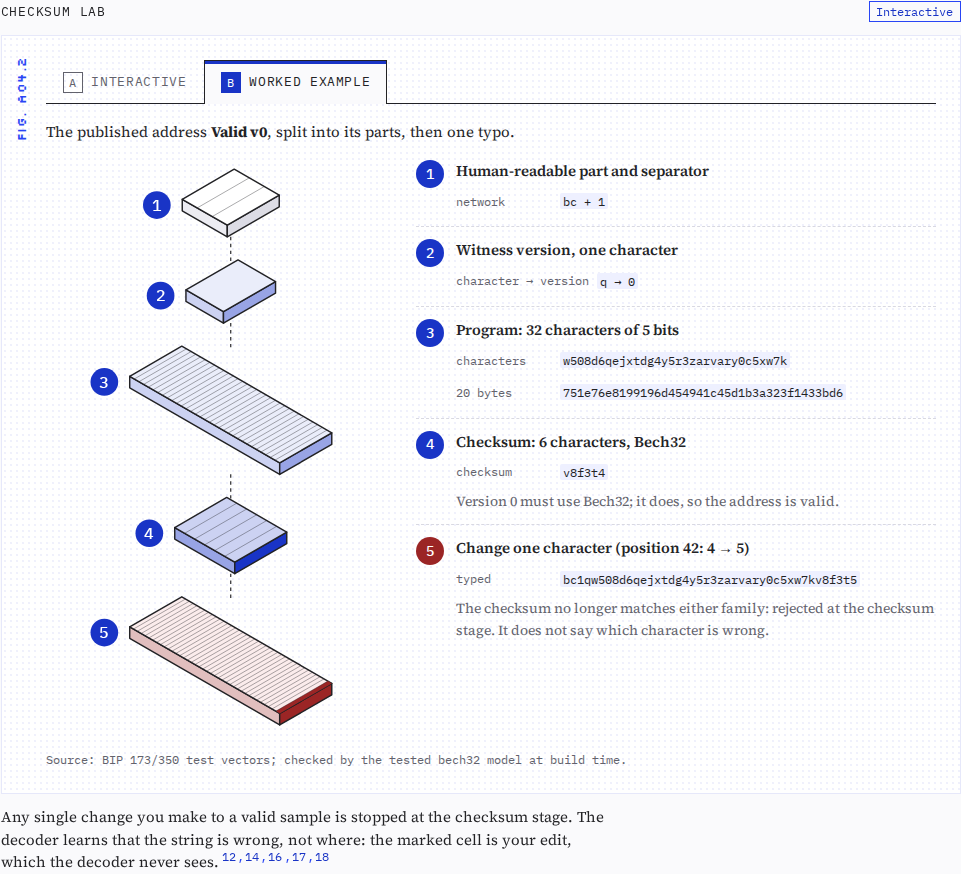
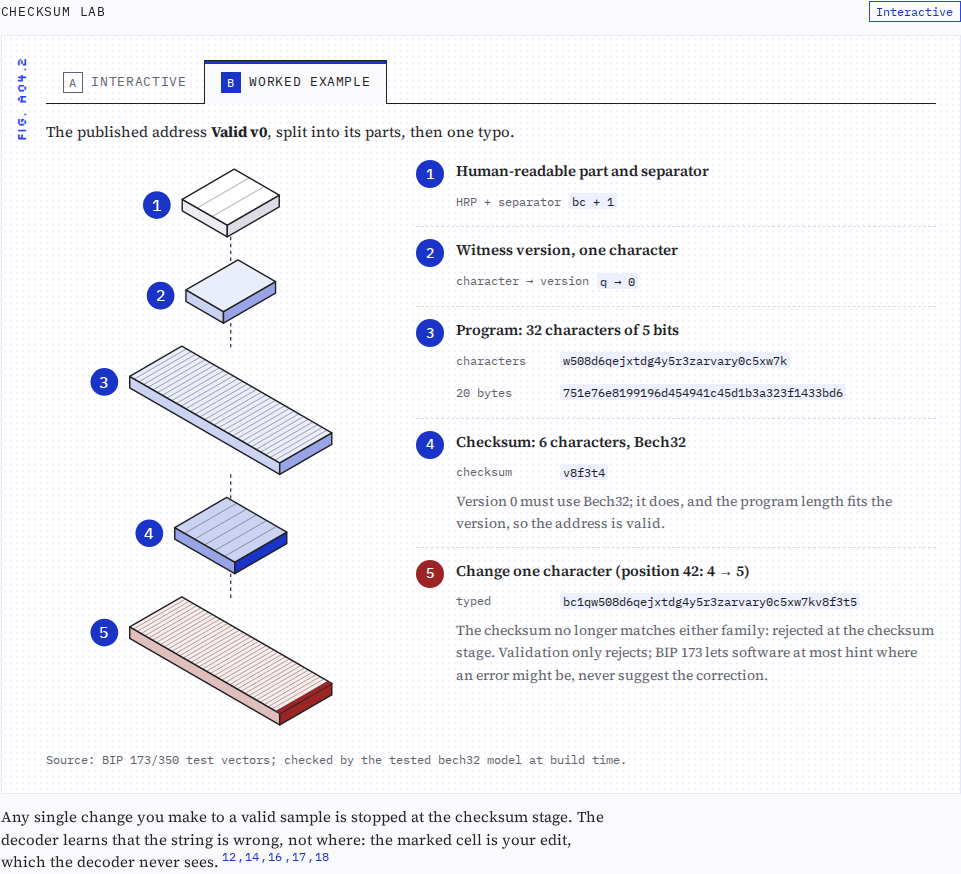
Apply worked-example review; record reader features
Worked examples: wording and values corrected per independent review (BIP 173
error hints, PSBT parallel signers and record counts, tapscript budget start,
own-key fingerprint label, consistent hatching). Tab panels gain roles and
focus only after enhancement. review/reader-features.md records both features.

Claude-Session: https://claude.ai/code/session_01QKioyx8RLEZkE9rL1EegCS

Changed region(s): [[0.437, 0.587, 0.9677, 0.8032], [0.718, 0.5561, 0.9365, 0.587], [0.4683, 0.2162, 0.6243, 0.2471]]

diff --git a/packages/figures/src/worked/Worked.tsx b/packages/figures/src/worked/Worked.tsx
@@ -43,13 +43,13 @@ export function MnemonicWorked({ fixture: f }: { fixture: DerivedMnemonicFixture
     {
       title: "Stretch words and passphrase into a 64-byte seed",
       values: [{ label: "passphrase", value: f.passphrase || "(empty)" }, { label: "seed", value: d.seeds[0].seedHex }],
-      note: "PBKDF2-HMAC-SHA512, 2,048 iterations, salt “mnemonic” + passphrase.",
+      note: "PBKDF2-HMAC-SHA512, 2,048 iterations; password the words, salt “mnemonic” + passphrase, both UTF-8 NFKD.",
       layer: { size: 0.7, tone: "accent" },
     },
   ];
   return (
     <WorkedExample
-      intro={<>One published vector, end to end: <strong>{f.label}</strong>. A public test phrase — never use it for funds.</>}
+      intro={<>One published vector, end to end: <strong>{f.label}</strong>. The hatched layer is the checksum. A public test phrase — never use it for funds.</>}
       steps={steps}
       label={`Entropy, checksum, ${d.layout.wordCount} groups, words, then seed, drawn as stacked layers.`}
       source={<>Source: {f.source.external ? `${f.source.external} ${f.source.pointer}` : `BIP 39 line ${f.source.line}`}; computed by the tested BIP 39 model.</>}
@@ -64,13 +64,13 @@ export function Bip32Worked({ fixture: f }: { fixture: DerivedBip32Fixture }) {
   const steps: WorkedStep[] = [
     {
       title: "Seed → master key and chain code",
-      values: [{ label: "seed", value: f.seedHex }, { label: "HMAC-SHA512", value: f.derived.masterIHex }],
+      values: [{ label: "seed", value: f.seedHex }, { label: "HMAC-SHA512, key “Bitcoin seed”", value: f.derived.masterIHex }],
       note: "Left 32 bytes: master private key. Right 32 bytes: master chain code.",
       layer: { size: 0.75, tone: "plain", cells: 2 },
     },
     ...nodes.map((n): WorkedStep => ({
-      title: n.path === "m" ? "Master node m" : `${n.path} — ${n.hardened ? "hardened child: needs the parent’s private key" : "normal child: derivable from the parent’s public key too"}`,
-      values: [{ label: "xpub", value: n.xpub }, { label: "fingerprint", value: n.fingerprintHex }],
+      title: n.path === "m" ? "Master node m" : `${n.path} — ${n.hardened ? "hardened child: needs the parent’s private key" : "normal child: derivable from the parent’s extended public key too"}`,
+      values: [{ label: "xpub", value: n.xpub }, { label: "own key fingerprint", value: n.fingerprintHex }],
       layer: { size: 0.9 - n.depth * 0.12, tone: n.path === "m" ? "accent" : n.hardened ? "hatch" : "wash" },
     })),
   ];
@@ -109,7 +109,7 @@ export function TxWorked({ fixture: f }: { fixture: DerivedTransactionFixture })
     }),
     {
       title: "Two identifiers",
-      values: [{ label: `txid (${m.baseSize} bytes hashed)`, value: m.txidHex }, { label: `wtxid (${m.totalSize} bytes)`, value: m.wtxidHex }],
+      values: [{ label: `txid (${m.baseSize} bytes hashed)`, value: m.txidHex }, { label: `wtxid (${m.totalSize} bytes hashed)`, value: m.wtxidHex }],
       note: `Hashes in the byte order they are computed. Weight 3 × ${m.baseSize} + ${m.totalSize} = ${m.weight}; ${m.vsize} virtual bytes.`,
       layer: { size: 0.5, tone: "accent", cells: 2 },
     },
@@ -132,7 +132,7 @@ export function AddressWorked({ fixtures }: { fixtures: AddressFixture[] }) {
   const sep = good.address.lastIndexOf("1");
   const program = good.address.slice(sep + 2, -6);
   const steps: WorkedStep[] = [
-    { title: "Human-readable part and separator", values: [{ label: "network", value: `${good.address.slice(0, sep)} + ${good.address[sep]}` }], layer: { size: 0.3, tone: "plain", cells: sep + 1 } },
+    { title: "Human-readable part and separator", values: [{ label: "HRP + separator", value: `${good.address.slice(0, sep)} + ${good.address[sep]}` }], layer: { size: 0.3, tone: "plain", cells: sep + 1 } },
     { title: "Witness version, one character", values: [{ label: "character → version", value: `${good.address[sep + 1]} → ${a.witnessVersion}` }], layer: { size: 0.25, tone: "wash", cells: 1 } },
     {
       title: `Program: ${program.length} characters of 5 bits`,
@@ -142,7 +142,7 @@ export function AddressWorked({ fixtures }: { fixtures: AddressFixture[] }) {
     {
       title: `Checksum: 6 characters, ${a.encoding === "bech32" ? "Bech32" : "Bech32m"}`,
       values: [{ label: "checksum", value: good.address.slice(-6) }],
-      note: `Version ${a.witnessVersion} must use ${a.witnessVersion === 0 ? "Bech32" : "Bech32m"}; it does, so the address is valid.`,
+      note: `Version ${a.witnessVersion} must use ${a.witnessVersion === 0 ? "Bech32" : "Bech32m"}; it does, and the program length fits the version, so the address is valid.`,
       layer: { size: 0.4, tone: "accent", cells: 6 },
     },
   ];
@@ -153,7 +153,7 @@ export function AddressWorked({ fixtures }: { fixtures: AddressFixture[] }) {
       steps.push({
         title: `Change one character (position ${pos + 1}: ${good.address[pos]} → ${typo.address[pos]})`,
         values: [{ label: "typed", value: typo.address }],
-        note: "The checksum no longer matches either family: rejected at the checksum stage. It does not say which character is wrong.",
+        note: "The checksum no longer matches either family: rejected at the checksum stage. Validation only rejects; BIP 173 lets software at most hint where an error might be, never suggest the correction.",
         layer: { tone: "fail", cells: good.address.length - sep - 1, mark: [pos - sep - 1] },
       });
     }
@@ -174,15 +174,17 @@ export function PsbtWorked({ fixture: f }: { fixture: DerivedPsbtTraceFixture })
     const records = s.maps.flatMap((m) => m.records);
     const added = records.filter((r) => r.status === "added");
     const removed = s.maps.reduce((n, m) => n + m.removed.length, 0);
-    const names = [...new Set(added.map((r) => r.name))];
+    const counts = [...added.reduce((m, r) => m.set(r.name, (m.get(r.name) ?? 0) + 1), new Map<string, number>())].map(([name, n]) => `${n} ${name} record${n === 1 ? "" : "s"}`);
+    const parent = s.basedOn.length === 1 ? f.derived.states.findIndex((x) => x.id === s.basedOn[0]) : -1;
+    const parallel = parent >= 0 && parent !== i - 1 ? ` Works on state ${parent + 1}, in parallel with ${f.derived.states[i - 1].role}.` : "";
     return {
       title: `${s.role} · ${s.bytes} bytes, ${records.length} record${records.length === 1 ? "" : "s"}`,
       note:
         i === 0
           ? "Unsigned transaction in the global map; every input and output map empty."
           : s.basedOn.length > 1
-            ? `Merges ${s.basedOn.length} PSBTs into one holding every record from each${s.uniqueFrom ? ` (${s.uniqueFrom.join(" and ")} records found in only one of them)` : ""}.`
-            : `${added.length ? `Adds ${names.join(", ")}.` : "Adds nothing new."}${removed ? ` Removes ${removed} record${removed === 1 ? "" : "s"}.` : ""}`,
+            ? `Merges ${s.basedOn.length} PSBTs into one holding every record from each${s.uniqueFrom ? `: ${s.uniqueFrom.map((n, k) => `${n} only in ${f.derived.states.find((x) => x.id === s.basedOn[k])?.role ?? "one copy"}’s copy`).join(", ")}` : ""}.`
+            : `${added.length ? `Adds ${counts.join(", ")}.` : "Adds nothing new."}${removed ? ` Removes ${removed} record${removed === 1 ? "" : "s"}.` : ""}${parallel}`,
       layer: { size: 0.45 + 0.55 * Math.min(1, records.length / 16), tone: removed ? "hatch" : i === 0 ? "plain" : "wash", cells: Math.min(records.length, 24), highlight: records.map((r, k) => (r.status === "added" && i > 0 ? k : -1)).filter((k) => k >= 0 && k < 24) },
     };
   });
@@ -193,7 +195,7 @@ export function PsbtWorked({ fixture: f }: { fixture: DerivedPsbtTraceFixture })
   });
   return (
     <WorkedExample
-      intro={<>The <strong>{f.label}</strong>, one published state per layer. Cells are records; filled cells were just added.</>}
+      intro={<>The <strong>{f.label}</strong>, one published state per layer. Cells are records; filled cells were just added; a hatched layer removed records.</>}
       steps={steps}
       label="Each published PSBT state stacked in order, growing as roles add records."
       source={<>Source: BIP 174 lines {f.steps[0].line}–{f.extracted.line}; parsed and combined by the tested PSBT model.</>}
@@ -208,9 +210,9 @@ export function SchnorrWorked({ fixtures }: { fixtures: DerivedSchnorrFixture[] 
   const v = (stage: string) => t.steps.find((s) => s.stage === stage)?.values ?? {};
   const steps: WorkedStep[] = [
     { title: "Lift the key to the point P with even y", values: [{ label: "pk = x(P)", value: f.publicKeyHex }, { label: "y(P)", value: v("lift-x").y }], layer: { size: 0.6, tone: "plain" } },
-    { title: "Split the signature: r < p and s < n", values: [{ label: "r", value: v("r-range").r }, { label: "s", value: v("s-range").s }], layer: { tone: "wash", cells: 2 } },
-    { title: "Hash r ‖ P ‖ m with the BIP0340/challenge tag", values: [{ label: "m", value: f.messageHex || "(empty)" }, { label: "e", value: v("challenge").e }], layer: { size: 0.8, tone: "hatch", cells: 3 } },
-    { title: "Compute R = s⋅G − e⋅P", values: [{ label: "x(R)", value: v("compute-r").x }], note: "R is a finite point with even y.", layer: { size: 0.6, tone: "wash" } },
+    { title: "Split the signature and check r < p and s < n", values: [{ label: "r", value: v("r-range").r }, { label: "s", value: v("s-range").s }], layer: { tone: "wash", cells: 2 } },
+    { title: "Hash r ‖ P ‖ m with the BIP0340/challenge tag", values: [{ label: "m", value: f.messageHex || "(empty)" }, { label: "e", value: v("challenge").e }], layer: { size: 0.8, tone: "wash", cells: 3 } },
+    { title: "Compute R = s⋅G − e⋅P", values: [{ label: "x(R)", value: v("compute-r").x }, { label: "y(R)", value: v("compute-r").y }], note: "Checked: R is not the point at infinity, and y(R) is even.", layer: { size: 0.6, tone: "wash" } },
     { title: "Compare x(R) with r", note: t.valid ? "Equal: the signature verifies, as the CSV says." : "Different: verification fails.", layer: { size: 0.45, tone: t.valid ? "accent" : "fail" } },
   ];
   return (
@@ -230,18 +232,18 @@ export function TaprootWorked({ fixture: f }: { fixture: DerivedTaprootTreeFixtu
   const branches = leaf.check.filter((s) => s.id === "branch");
   const tweak = leaf.check.find((s) => s.id === "tweak")!.values;
   const steps: WorkedStep[] = [
-    { title: `Reveal one script (leaf ${String.fromCharCode(65 + leaf.id)}) and hash it`, values: [{ label: "script", value: leaf.scriptHex }, { label: "TapLeaf hash", value: leaf.leafHash }], layer: { size: 0.4, tone: "accent" } },
+    { title: `Reveal one script (leaf ${String.fromCharCode(65 + leaf.id)}) and hash it with its leaf version 0x${leaf.leafVersion.toString(16)} and length`, values: [{ label: "script", value: leaf.scriptHex }, { label: "TapLeaf hash", value: leaf.leafHash }], layer: { size: 0.4, tone: "accent" } },
     ...branches.map((b, j): WorkedStep => ({
       title: `Fold in sibling hash ${j + 1}, smaller first`,
       values: [{ label: "sibling", value: b.values.e }, { label: "TapBranch", value: b.values.next }],
       layer: { size: 0.55 + 0.2 * j, tone: "wash", cells: 2 },
     })),
-    { title: "Tweak the internal key with the root", values: [{ label: "internal key P", value: d.internalKeyHex }, { label: "t", value: tweak.t }], layer: { size: 0.9, tone: "hatch", cells: 2 } },
-    { title: "Q = P + t⋅G must equal the output key", values: [{ label: "output key q", value: d.outputKeyHex }], note: "It does: the output committed to this script all along.", layer: { size: 0.6, tone: "accent" } },
+    { title: "Tweak the internal key with the root", values: [{ label: "internal key P", value: d.internalKeyHex }, { label: "t", value: tweak.t }], layer: { size: 0.9, tone: "wash", cells: 2 } },
+    { title: "Q = P + t⋅G must equal the output key", values: [{ label: "output key q", value: d.outputKeyHex }], note: `It does, and y(Q) is ${d.parity ? "odd" : "even"}, matching the control block’s parity bit: the output committed to this script all along.`, layer: { size: 0.6, tone: "accent" } },
   ];
   return (
     <WorkedExample
-      intro={<>Spending published vector {f.vectorIndex} through its deepest leaf: what the verifier rebuilds from the control block.</>}
+      intro={<>Spending published vector {f.vectorIndex} through one of its deepest leaves: what the verifier rebuilds from the control block.</>}
       steps={steps}
       label="A leaf hash folded with sibling hashes up to the root, then tweaked into the output key."
       source={<>Source: BIP 341 wallet-test-vectors.json, {f.source.pointer}; every value matched the vector at build time.</>}
@@ -255,7 +257,12 @@ export function TapscriptWorked({ fixtures }: { fixtures: DerivedTapscriptFixtur
   const v = f.derived.success;
   const label = (ids: number[]) => (ids.length ? [...ids].reverse().map((i) => v.elements[i].label).join(" / ") : "empty");
   const steps: WorkedStep[] = [
-    { title: "Start from the witness items", values: [{ label: "stack, top first", value: label(v.initialStack) }], layer: { size: 0.35, tone: "plain", cells: v.initialStack.length } },
+    {
+      title: "Start from the witness, minus the script and control block",
+      values: [{ label: "stack, top first", value: label(v.initialStack) }],
+      note: `Sigops budget: 50 + ${v.witness.totalBytes} witness bytes = ${v.budgetStart}; each checked signature costs 50.`,
+      layer: { size: 0.35, tone: "plain", cells: v.initialStack.length },
+    },
     ...v.steps.map((s): WorkedStep => ({
       title: s.name,
       values: [{ label: "stack, top first", value: label(s.after) }],
@@ -265,7 +272,7 @@ export function TapscriptWorked({ fixtures }: { fixtures: DerivedTapscriptFixtur
   ];
   return (
     <WorkedExample
-      intro={<>Bitcoin Core test case {f.caseIndex} ({f.label}), success witness, one opcode per layer. Cells are stack elements.</>}
+      intro={<>Bitcoin Core test case {f.caseIndex} ({f.label}), success witness: the starting stack, then one opcode per layer. Cells are stack elements.</>}
       steps={steps}
       label="The stack after each opcode of one recorded tapscript run."
       source={<>Source: Core script_assets_test.json case {f.caseIndex}, pinned; recorded at build time and matched to Core’s label.</>}

diff --git a/apps/site/src/styles/atlas.css b/apps/site/src/styles/atlas.css
@@ -945,3 +945,4 @@ button.atlas-env__record:hover { border-color: var(--manual-blue); }
   .atlas-tabs__list [role="tab"] { padding-inline: 0.6rem; flex: 1 1 0; justify-content: center; }
 }
 .atlas-worked__spaced { overflow-wrap: anywhere; word-break: normal; }
+.atlas-tabs__panel:focus-visible { outline: 2px solid var(--manual-focus); outline-offset: 4px; }

diff --git a/review/reader-features.md b/review/reader-features.md
@@ -1,0 +1,33 @@
+# Reader features — review record
+
+Date: 1 October 2026. Two features requested by the user after phase two. Status: implemented, independently reviewed, awaiting human sign-off of the visual direction.
+
+## (a) Back-links from the evidence list
+
+- Every citation marker has an anchor derived from its block's `walkBlocks` path (`citeAnchor` in `apps/site/src/lib/content.ts`). Each evidence entry lists ↩ links (↩ a, b, c… when cited more than once) back to every place that cites it, with an accessible name naming the section or figure.
+- A small script opens any closed Details disclosure that contains a link target, so a back-link into a Details block lands on visible text.
+- Fixture tables (Addresses chapter) now render their citation markers; before this they cited claims without showing a marker.
+- Checked: on all eight chapters every back-link has a target and every marker is linked back (no orphans either way); a browser round trip from a marker to the evidence and back into a closed Details block lands in view with the block open.
+
+## (b) Two-tab plates: Interactive / Worked example
+
+- Every interactive figure is a tabbed plate in the text: **A · Interactive** (unchanged island) and **B · Worked example**, a static walk through one published case drawn as an exploded isometric stack (`packages/figures/src/worked/`), with a numbered legend carrying the exact values. Values come from the same build-time derived data as the interactive view; nothing new is computed in the browser and the client bundle did not grow (~28.5 KB gzipped).
+- Each chapter has its own accent colour (`[data-chapter=…]` in `atlas.css`), used by the worked examples and tabs only.
+- Tabs follow the ARIA tabs pattern (roving tabindex, Arrow/Home/End). Without JavaScript the tab bar stays hidden, the panels are plain sections and both views render one after the other under "A · Interactive" / "B · Worked example" headings; tab roles are added only once the tab bar works.
+- A contract test requires a worked-example adapter for every interactive recipe.
+- The design brief pointed at makingsoftware.com; the cloud container could not reach it (egress blocked), so the style was built from the user's description: same-style 2D plates, per-chapter colour themes, minimal 3D-ish exploded illustrations.
+
+## Checks
+
+- Desktop 1440 and mobile 375 screenshots of all eight worked-example tabs (`review/screenshots/worked-*`): no horizontal overflow, no page errors, no third-party requests.
+- axe-core (WCAG 2.1 A/AA + best practice): no violations on any chapter with either tab open. Fixing heading levels in phase-one figures (`h4`/`h5` panel and map titles skipped levels) made phase one clean too.
+
+## Independent review of the worked examples
+
+A fresh subagent read every rendered worked example against the BIPs, the fixtures and the derived data, and recomputed the values (BIP 39 hash/checksum/seed, BIP 32 xpubs, SegWit sizes and wtxid, the address typo, PSBT record counts, BIP 340 challenge, BIP 341 hashes and tweak, the BIP 342 stack). No blocking findings; 5 should-fix and 6 nits, all applied:
+1. Addresses: "It does not say which character is wrong" contradicted BIP 173 L179–182 → "Validation only rejects; BIP 173 lets software at most hint where an error might be, never suggest the correction."
+2. PSBT: Signer B read as building on Signer A → note that it works on state 3 in parallel with Signer A.
+3. PSBT: notes lost counts → "Adds 2 Partial Signature records", etc.; combiner note names which copy holds which records.
+4. Tapscript: "budget now 654" had no starting value → step 1 shows 50 + 654 witness bytes = 704.
+5. HD wallets: the fingerprint shown is the node's own, while an xpub stores its parent's → label "own key fingerprint".
+Nits: hatching now carries a stated meaning in every chapter where it is used (or is not used); Schnorr "check r < p and s < n" and y(R) shown with the checks it passed; Taproot names leaf version and length in the leaf hash, the parity check, and "one of its deepest leaves"; BIP 39 NFKD for password and salt; "HMAC-SHA512, key “Bitcoin seed”"; "extended public key"; "HRP + separator"; program-length check mentioned; "bytes hashed" on both identifiers; Tapscript step 1 wording; tab panels focusable after enhancement, plain sections without JS.
